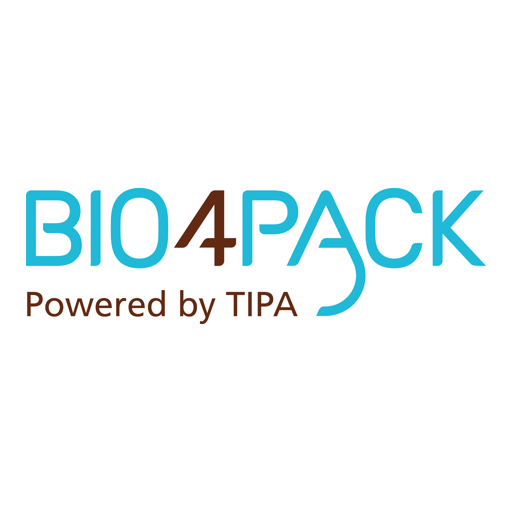
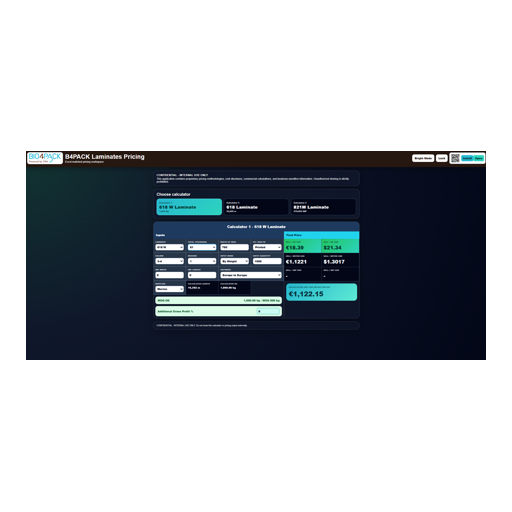
Add files via upload

diff --git a/index.html b/index.html
@@ -1,3 +1,4 @@
-<!doctype html><html><head><meta charset="utf-8"><meta name="viewport" content="width=device-width,initial-scale=1"><title>B4PACK Pricing</title><link rel="manifest" href="manifest.json"><style>
-:root{--bg:#06101f;--panel:#111d31;--text:#f8fafc;--muted:#aab7c8;--line:#2a3b55;--cyan:#28bfd0;--cyan2:#70efe2;--input:#f1f5f9;--inputText:#0f172a}.light{--bg:#f8fafc;--panel:#fff;--text:#0f172a;--muted:#475569;--line:#cbd5e1;--input:#fff;--inputText:#0f172a}*{box-sizing:border-box}body{margin:0;font-family:Arial,Helvetica,sans-serif;background:var(--bg);color:var(--text)}button,select,input{font:inherit}.app{min-height:100vh;background:radial-gradient(circle at top left,#16434a,var(--bg) 38%,#050912)}.app.light{background:linear-gradient(135deg,#f8fafc,#eaf6ff)}.top{background:linear-gradient(135deg,#21130e,#48200f);padding:16px 22px;display:flex;justify-content:space-between;align-items:center;gap:16px;color:white}.brand{display:flex;gap:14px;align-items:center}.logo{background:white;border-radius:16px;padding:8px 12px}.logo img{height:54px;max-width:300px;display:block}h1{margin:0;font-size:clamp(24px,3vw,36px)}.sub{color:#cbd5e1;font-size:13px}.actions{display:flex;align-items:center;gap:10px;flex-wrap:wrap}.btn{border:0;border-radius:12px;padding:10px 14px;background:white;color:#261810;font-weight:900;cursor:pointer}.install{display:flex;gap:8px;align-items:center;background:#f8fafc;color:#0f172a;border-radius:14px;padding:6px 8px}.install img{width:50px;height:50px}.install button,.install a{border:0;border-radius:9px;padding:7px 10px;background:var(--cyan);color:#052e2b;font-weight:900;text-decoration:none;cursor:pointer}.install a{background:var(--cyan2)}.page{max-width:1340px;margin:auto;padding:22px}.notice,.cards,.main,.price,.footer{background:var(--panel);border:1px solid var(--line);border-radius:22px;box-shadow:0 14px 40px #0004}.notice{padding:16px 20px;border-left:6px solid var(--cyan);margin-bottom:18px}.notice p{margin:4px 0 0;color:var(--muted);font-size:13px}.cards{padding:18px;margin-bottom:18px}.tabs{display:grid;grid-template-columns:repeat(3,1fr);gap:12px}.tab{background:var(--bg);color:var(--text);border:1px solid var(--line);border-radius:18px;padding:16px;text-align:left;cursor:pointer}.tab.active{background:linear-gradient(135deg,var(--cyan),var(--cyan2));color:#052e2b;border:0}.tab span{font-size:11px;text-transform:uppercase;font-weight:900;opacity:.75}.tab strong{display:block;font-size:24px;margin-top:6px}.tab small{font-weight:800;opacity:.8}.work{display:grid;grid-template-columns:minmax(0,1.55fr) minmax(360px,.8fr);gap:18px}.title{padding:16px;text-align:center;background:#1f4167;color:white;font-size:20px;font-weight:950}.app.light .title{background:#dbeafe;color:#0f172a}.wrap{padding:18px}.group{margin-bottom:18px}.group h3{font-size:13px;text-transform:uppercase;letter-spacing:.12em;color:#8be9ef;margin:0 0 10px}.app.light .group h3{color:#057d8a}.grid{display:grid;grid-template-columns:repeat(3,1fr);gap:10px}.field{background:var(--input);color:var(--inputText);border:1px solid #cbd5e1;border-radius:14px;padding:10px}.field label{display:block;font-size:10px;text-transform:uppercase;font-weight:950;color:#475569;margin-bottom:5px}select,input{width:100%;border:0;background:white;color:#0f172a;border-radius:10px;padding:8px 9px;font-weight:900}.readonly{background:var(--bg);color:var(--text);border-color:var(--line)}.readonly .value{font-size:17px;font-weight:950}.status{display:grid;grid-template-columns:1fr 1fr;gap:10px;padding:0 18px 18px}.moq,.gp{border-radius:16px;padding:14px 16px;font-weight:950;display:flex;justify-content:space-between;align-items:center;gap:12px}.good{background:#d9fbe8;color:#07583a}.bad{background:#fee2e2;color:#991b1b}.gp{background:#d7fbef;color:#065f46}.gp input{max-width:120px;border:1px solid #23b8a6;background:#ccfbf1}.price{position:sticky;top:18px;align-self:start;overflow:hidden}.priceH{background:linear-gradient(135deg,var(--cyan),var(--cyan2));color:#06323a;padding:18px;text-align:center;font-weight:950}.hero{text-align:center;padding:24px;border-bottom:1px solid var(--line)}.hero .k{font-size:12px;text-transform:uppercase;color:var(--muted);font-weight:950;letter-spacing:.12em}.hero .m{font-size:clamp(42px,5vw,60px);font-weight:1000;letter-spacing:-.06em;margin:8px 0}.hero .u{color:#a7f3d0;font-weight:900}.app.light .hero .u{color:#0f766e}.metrics{display:grid;grid-template-columns:1fr 1fr}.metric{padding:16px;border-bottom:1px solid var(--line);border-right:1px solid var(--line)}.metric:nth-child(even){border-right:0}.metric .l{font-size:10px;color:var(--muted);text-transform:uppercase;font-weight:950}.metric .v{font-size:22px;font-weight:950;margin-top:5px}.b4p{margin:18px;border-radius:18px;background:linear-gradient(135deg,#35d1ca,#72f0df);color:#06323a;padding:18px;text-align:center}.b4p .v{font-size:34px;font-weight:1000}.footer{margin-top:18px;padding:14px 18px;color:var(--muted);font-size:12px}.login{min-height:100vh;display:flex;align-items:center;justify-content:center;padding:24px;background:radial-gradient(circle at top left,#16434a,#06101f 45%,#050912)}.loginCard{width:min(480px,100%);background:#111d31;border:1px solid #2a3b55;border-radius:28px;padding:30px}.loginLogo{background:white;border-radius:18px;padding:12px;display:inline-block;margin-bottom:18px}.loginLogo img{height:58px;max-width:330px}.loginCard input{background:#273549;color:white;border:1px solid #64748b;margin:12px 0}.loginCard button{width:100%;border:0;border-radius:14px;padding:14px;background:linear-gradient(135deg,var(--cyan),var(--cyan2));font-weight:950;color:#052e2b}.err{color:#fca5a5;font-weight:900;min-height:20px;margin-top:10px}@media(max-width:980px){.top{flex-direction:column;align-items:flex-start}.work{grid-template-columns:1fr}.price{position:static}.grid{grid-template-columns:repeat(2,1fr)}.status{grid-template-columns:1fr}}@media(max-width:640px){.page{padding:14px}.brand{flex-direction:column;align-items:flex-start}.tabs,.grid,.metrics{grid-template-columns:1fr}.install{width:100%}}
-</style></head><body><div id="root"></div><script>const DATA={"password":"Success2026","siteUrl":"https://bishmalovich-web.github.io/bio4pack-Laminates/","qrUrl":"qr-code.png","profiles":{"618 W":{"laminate":"618 W","totalThickness":61,"widthAsked":760,"prNonPr":"Printed","colors":"3-4","designs":1,"shipment":"Europe to Europe","inputMode":"By Weight","inputQuantity":1000,"inputUnit":"Kg","impWidth":0,"impLength":0,"lengthMeters":16391.76820227607,"totalKg":1000,"kgMoq":500,"sellKgEur":18.394239052100335,"kgPerMeter":0.06100623115577888},"618":{"laminate":"618","totalThickness":61,"widthAsked":385,"prNonPr":"Printed","colors":"5-8","designs":1,"shipment":"Europe to Europe","inputMode":"By Length","inputQuantity":32000,"inputUnit":"m","impWidth":0,"impLength":0,"lengthMeters":32000,"totalKg":983.9984,"kgMoq":500,"sellKgEur":14.381295142,"kgPerMeter":0.030749949999999998},"821M":{"laminate":"821M","totalThickness":79,"widthAsked":750,"prNonPr":"Printed","colors":"3-4","designs":1,"shipment":"Europe to Europe","inputMode":"By Imp","inputQuantity":475000,"inputUnit":"IMP","impWidth":70,"impLength":105,"lengthMeters":4987.5,"totalKg":397.50378125,"kgMoq":500,"sellKgEur":17.028,"sellImpEur":0.014247042956863501,"kgPerMeter":0.07970000626566416},"819":{"laminate":"819","totalThickness":121,"widthAsked":760,"prNonPr":"Printed","colors":"3-4","designs":1,"shipment":"Europe to Europe","inputMode":"By Weight","inputQuantity":1000,"inputUnit":"Kg","impWidth":760,"impLength":110,"lengthMeters":11651,"totalKg":1000,"kgMoq":500,"sellKgEur":14.04,"kgPerMeter":0.08582954252853832},"823":{"laminate":"823","totalThickness":121,"widthAsked":760,"prNonPr":"Printed","colors":"3-4","designs":1,"shipment":"Europe to Europe","inputMode":"By Weight","inputQuantity":1000,"inputUnit":"Kg","impWidth":760,"impLength":110,"lengthMeters":11651,"totalKg":1000,"kgMoq":500,"sellKgEur":14.35,"kgPerMeter":0.08582954252853832},"428":{"laminate":"428","totalThickness":79,"widthAsked":800,"prNonPr":"Printed","colors":"3-4","designs":8,"shipment":"Europe to Europe","inputMode":"By Length","inputQuantity":14000,"inputUnit":"m","impWidth":0,"impLength":0,"lengthMeters":14000,"totalKg":1143.144,"kgMoq":500,"sellKgEur":19.35426384448092,"kgPerMeter":0.08165314285714285}},"allowed":["618","618 W","428","819","823","821M"],"calcDefaults":["618 W","618","821M"],"colors":["0","1-2","3-4","5-8"],"prOptions":["Printed","Non PR"],"inputModes":["By Length","By Weight","By Imp"],"shipments":["Europe to Europe"],"designs":[1,2,3,4,5,6,7,8],"thicknessByLam":{"618":[51,56,61,66,78,86,106],"618 W":[51,56,61,66,78,86,106],"428":[79],"819":[121],"823":[121],"821M":[79]}};let mode=localStorage.getItem('b4p_mode')||'dark',activeCalc=1,states={1:{},2:{},3:{}},auth=sessionStorage.getItem('b4p_access')==='granted',deferredPrompt=null;function init(){[1,2,3].forEach((id,i)=>{const lam=DATA.calcDefaults[i];states[id]=Object.assign({},DATA.profiles[lam],{supplier:'Marma',shipment:'Europe to Europe'})})}init();window.addEventListener('beforeinstallprompt',e=>{e.preventDefault();deferredPrompt=e;});if('serviceWorker' in navigator){window.addEventListener('load',()=>navigator.serviceWorker.register('./sw.js').catch(()=>{}));}function n(v,d=2){return v==null||v===''||Number.isNaN(Number(v))?'-':Number(v).toLocaleString(undefined,{minimumFractionDigits:d,maximumFractionDigits:d})}function i(v){return v==null||v===''||Number.isNaN(Number(v))?'-':Number(v).toLocaleString(undefined,{maximumFractionDigits:0})}function opt(a,v){return a.map(x=>`<option value="${x}" ${String(x)===String(v)?'selected':''}>${x}</option>`).join('')}function field(l,t,v,o,id){return `<div class="field"><label>${l}</label>${t==='select'?`<select id="${id}">${opt(o,v)}</select>`:`<input id="${id}" type="number" value="${v??''}">`}</div>`}function ro(l,v){return `<div class="field readonly"><label>${l}</label><div class="value">${v}</div></div>`}function title(id){return `Calculator ${id} - ${states[id].laminate} Laminate`}function colorFactor(cur,base){const r={'0':0.86,'1-2':0.94,'3-4':1,'5-8':1.08};return (r[cur]??1)/(r[base]??1)}function calc(c){const p=DATA.profiles[c.laminate];c.supplier='Marma';c.shipment='Europe to Europe';const bw=+p.widthAsked||1,w=+c.widthAsked||bw,bt=+p.totalThickness||1,t=+c.totalThickness||bt;let kgpm=(+p.kgPerMeter||0)*(w/bw)*(t/bt);const qty=+c.inputQuantity||0;let meters=0,kg=0,impL=+c.impLength||+p.impLength||0;if(c.inputMode==='By Weight'){kg=qty;meters=kg/Math.max(kgpm,.000001)}else if(c.inputMode==='By Imp'){const bq=+p.inputQuantity||qty||1;meters=(+p.lengthMeters||0)*(qty/bq);kg=meters*kgpm}else{meters=qty;kg=meters*kgpm}let factor=colorFactor(c.colors,p.colors);factor*=((c.prNonPr==='Printed'?1:.86)/(p.prNonPr==='Printed'?1:.86));factor*=((1+((+c.designs||1)-1)*.012)/(1+((+p.designs||1)-1)*.012));let sellKg=p.sellKgEur*factor;const extra=Math.max(0,Math.min(95,+c.additionalGrossProfit||0));sellKg=sellKg/(1-extra/100);const sellM=sellKg*kgpm;const sellImp=(c.inputMode==='By Imp'&&qty)?(sellKg*kg/qty):null,usd=1.16,b4p=(sellImp!==null&&impL)?((1000/impL)*sellImp*1000):sellM*1000;return{meters,kg,sellKg,sellKgUsd:sellKg*usd,sellM,sellMUsd:sellM*usd,sellImp,sellImpUsd:sellImp===null?null:sellImp*usd,b4p,totalSell:sellKg*kg}}function wire(id,fn){const e=document.getElementById(id);if(e)e.onchange=x=>{fn(x.target.value);render()}}function login(){document.getElementById('root').innerHTML=`<div class="login"><div class="loginCard"><div class="loginLogo"><img src="image.png"></div><h1>B4PACK Pricing Calculator</h1><p>Enter password to continue.</p><input id="passwordInput" type="password" placeholder="Password"><button id="loginBtn">Unlock Calculator</button><div class="err" id="loginError"></div></div></div>`;document.getElementById('loginBtn').onclick=tryLogin;document.getElementById('passwordInput').onkeydown=e=>{if(e.key==='Enter')tryLogin()};document.getElementById('passwordInput').focus()}function tryLogin(){if(document.getElementById('passwordInput').value===DATA.password){sessionStorage.setItem('b4p_access','granted');auth=true;render()}else document.getElementById('loginError').textContent='Incorrect password'}function installApp(){if(deferredPrompt){deferredPrompt.prompt();deferredPrompt.userChoice.finally(()=>deferredPrompt=null)}else alert('Use browser menu: Add to Home Screen / Install App.')}function render(){if(!auth){login();return}const c=states[activeCalc],r=calc(c),under=r.kg<(+c.kgMoq||500),th=DATA.thicknessByLam[c.laminate]||[c.totalThickness];document.getElementById('root').innerHTML=`<div class="app ${mode==='light'?'light':'dark'}"><header class="top"><div class="brand"><div class="logo"><img src="image.png"></div><div><h1>B4PACK Laminates Pricing</h1><div class="sub">Confidential internal pricing workspace</div></div></div><div class="actions"><button class="btn" id="modeBtn">${mode==='dark'?'Bright Mode':'Dark Mode'}</button><button class="btn" id="logoutBtn">Lock</button><div class="install"><img src="${DATA.qrUrl}"><div><button id="installBtn">Install</button><a href="${DATA.siteUrl}" target="_blank">Open</a></div></div></div></header><main class="page"><section class="notice"><strong>CONFIDENTIAL - INTERNAL USE ONLY</strong><p>This application contains proprietary pricing methodologies, cost structures, commercial calculations, and business-sensitive information. Unauthorized sharing is strictly prohibited.</p></section><section class="cards"><h2>Choose calculator</h2><div class="tabs">${[1,2,3].map(id=>`<button class="tab ${id===activeCalc?'active':''}" data-calc="${id}"><span>Calculator ${id}</span><strong>${states[id].laminate} Laminate</strong><small>${i(states[id].inputQuantity)} ${states[id].inputUnit||''}</small></button>`).join('')}</div></section><section class="work"><div class="main"><div class="title">${title(activeCalc)}</div><div class="wrap"><div class="group"><h3>Material setup</h3><div class="grid">${field('Laminate','select',c.laminate,DATA.allowed,'laminate')}${field('Total Thickness','select',c.totalThickness,th,'thickness')}${field('Width of Reel','number',c.widthAsked,null,'width')}</div></div><div class="group"><h3>Production inputs</h3><div class="grid">${field('Input Mode','select',c.inputMode,DATA.inputModes,'mode')}${field('Input Quantity','number',c.inputQuantity,null,'qty')}${field('PR / Non PR','select',c.prNonPr,DATA.prOptions,'pr')}${field('Colors','select',c.colors,DATA.colors,'colors')}${field('Designs','select',c.designs,DATA.designs,'designs')}${field('Shipment','select',c.shipment,DATA.shipments,'shipment')}${field('IMP Width','number',c.impWidth,null,'impw')}${field('IMP Length','number',c.impLength,null,'impl')}</div></div><div class="group"><h3>Calculated output</h3><div class="grid">${ro('Calculated Length',n(r.meters,0)+' m')}${ro('Calculated KG',n(r.kg,2)+' kg')}${ro('Total Sell EUR','€'+n(r.totalSell,2))}</div></div></div><div class="status"><div class="moq ${under?'bad':'good'}"><span>${under?'UNDER MOQ':'MOQ OK'}</span><span>${n(r.kg,2)} kg / MOQ ${n(c.kgMoq||500,0)} kg</span></div><div class="gp"><span>Additional Gross Profit %</span><input id="extraGp" type="number" value="${c.additionalGrossProfit??0}"></div></div></div><aside class="price"><div class="priceH">Final Price</div><div class="hero"><div class="k">Sell Price Per KG</div><div class="m">€${n(r.sellKg,2)}</div><div class="u">EUR / KG</div></div><div class="metrics"><div class="metric"><div class="l">KG USD</div><div class="v">$${n(r.sellKgUsd,2)}</div></div><div class="metric"><div class="l">Meter EUR</div><div class="v">€${n(r.sellM,4)}</div></div><div class="metric"><div class="l">Meter USD</div><div class="v">$${n(r.sellMUsd,4)}</div></div><div class="metric"><div class="l">IMP EUR</div><div class="v">${r.sellImp===null?'-':'€'+n(r.sellImp,5)}</div></div></div><div class="b4p"><div class="l">B4P per 1000 meter</div><div class="v">€${n(r.b4p,2)}</div></div></aside></section><section class="footer">CONFIDENTIAL - INTERNAL USE ONLY. Supplier is fixed internally as Marma and is not shown in the pricing interface.</section></main></div>`;document.getElementById('modeBtn').onclick=()=>{mode=mode==='dark'?'light':'dark';localStorage.setItem('b4p_mode',mode);render()};document.getElementById('installBtn').onclick=installApp;document.getElementById('logoutBtn').onclick=()=>{sessionStorage.removeItem('b4p_access');auth=false;login()};document.querySelectorAll('.tab').forEach(b=>b.onclick=()=>{activeCalc=+b.dataset.calc;render()});wire('laminate',v=>{states[activeCalc]=Object.assign({},DATA.profiles[v],{laminate:v,supplier:'Marma',shipment:'Europe to Europe'})});wire('thickness',v=>states[activeCalc].totalThickness=+v);wire('width',v=>states[activeCalc].widthAsked=+v);wire('pr',v=>states[activeCalc].prNonPr=v);wire('colors',v=>states[activeCalc].colors=v);wire('designs',v=>states[activeCalc].designs=+v);wire('mode',v=>states[activeCalc].inputMode=v);wire('qty',v=>states[activeCalc].inputQuantity=+v);wire('impw',v=>states[activeCalc].impWidth=+v);wire('impl',v=>states[activeCalc].impLength=+v);wire('extraGp',v=>states[activeCalc].additionalGrossProfit=+v)}render();</script></body></html>
+<!doctype html>
+<html><head><meta charset="utf-8"><meta name="viewport" content="width=device-width,initial-scale=1"><title>B4PACK Pricing</title><link rel="manifest" href="manifest.json"><style>
+:root{--bg:#06101f;--panel:#111d31;--text:#f8fafc;--muted:#aab7c8;--line:#2a3b55;--cyan:#28bfd0;--cyan2:#70efe2;--input:#f1f5f9;--inputText:#0f172a}.light{--bg:#f8fafc;--panel:#fff;--text:#0f172a;--muted:#475569;--line:#cbd5e1;--input:#fff;--inputText:#0f172a}*{box-sizing:border-box}body{margin:0;font-family:Arial,Helvetica,sans-serif;background:var(--bg);color:var(--text)}button,select,input{font:inherit}.app{min-height:100vh;background:radial-gradient(circle at top left,#16434a,var(--bg) 38%,#050912)}.app.light{background:linear-gradient(135deg,#f8fafc,#eaf6ff)}.top{background:linear-gradient(135deg,#21130e,#48200f);padding:16px 22px;display:flex;justify-content:space-between;align-items:center;gap:16px;color:white}.brand{display:flex;gap:14px;align-items:center}.logo{background:white;border-radius:16px;padding:8px 12px}.logo img{height:54px;max-width:300px;display:block}h1{margin:0;font-size:clamp(24px,3vw,36px)}.sub{color:#cbd5e1;font-size:13px}.actions{display:flex;align-items:center;gap:10px;flex-wrap:wrap}.btn{border:0;border-radius:12px;padding:10px 14px;background:white;color:#261810;font-weight:900;cursor:pointer}.install{display:flex;gap:8px;align-items:center;background:#f8fafc;color:#0f172a;border-radius:14px;padding:6px 8px}.install img{width:50px;height:50px}.install button,.install a{border:0;border-radius:9px;padding:7px 10px;background:var(--cyan);color:#052e2b;font-weight:900;text-decoration:none;cursor:pointer}.install a{background:var(--cyan2)}.page{max-width:1340px;margin:auto;padding:22px}.notice,.cards,.main,.price,.footer{background:var(--panel);border:1px solid var(--line);border-radius:22px;box-shadow:0 14px 40px #0004}.notice{padding:16px 20px;border-left:6px solid var(--cyan);margin-bottom:18px}.notice p{margin:4px 0 0;color:var(--muted);font-size:13px}.cards{padding:18px;margin-bottom:18px}.tabs{display:grid;grid-template-columns:repeat(3,1fr);gap:12px}.tab{background:var(--bg);color:var(--text);border:1px solid var(--line);border-radius:18px;padding:16px;text-align:left;cursor:pointer}.tab.active{background:linear-gradient(135deg,var(--cyan),var(--cyan2));color:#052e2b;border:0}.tab span{font-size:11px;text-transform:uppercase;font-weight:900;opacity:.75}.tab strong{display:block;font-size:24px;margin-top:6px}.tab small{font-weight:800;opacity:.8}.work{display:grid;grid-template-columns:minmax(0,1.55fr) minmax(360px,.8fr);gap:18px}.title{padding:16px;text-align:center;background:#1f4167;color:white;font-size:20px;font-weight:950}.app.light .title{background:#dbeafe;color:#0f172a}.wrap{padding:18px}.group{margin-bottom:18px}.group h3{font-size:13px;text-transform:uppercase;letter-spacing:.12em;color:#8be9ef;margin:0 0 10px}.app.light .group h3{color:#057d8a}.grid{display:grid;grid-template-columns:repeat(3,1fr);gap:10px}.field{background:var(--input);color:var(--inputText);border:1px solid #cbd5e1;border-radius:14px;padding:10px}.field label{display:block;font-size:10px;text-transform:uppercase;font-weight:950;color:#475569;margin-bottom:5px}select,input{width:100%;border:0;background:white;color:#0f172a;border-radius:10px;padding:8px 9px;font-weight:900}.readonly{background:var(--bg);color:var(--text);border-color:var(--line)}.readonly .value{font-size:17px;font-weight:950}.pricingNote{margin:0 18px 12px;padding:14px 16px;border-left:5px solid var(--cyan);background:#e6fffb;color:#0f172a;border-radius:14px;font-size:13px;line-height:1.35}.pricingNote strong{display:block;font-size:13px;text-transform:uppercase;letter-spacing:.08em;margin-bottom:4px}.app.light .pricingNote{background:#ecfeff;color:#0f172a}.status{display:grid;grid-template-columns:1fr 1fr;gap:10px;padding:0 18px 18px}.moq,.gp{border-radius:16px;padding:14px 16px;font-weight:950;display:flex;justify-content:space-between;align-items:center;gap:12px}.good{background:#d9fbe8;color:#07583a}.bad{background:#fee2e2;color:#991b1b}.gp{background:#d7fbef;color:#065f46}.gp input{max-width:120px;border:1px solid #23b8a6;background:#ccfbf1}.price{position:sticky;top:18px;align-self:start;overflow:hidden}.priceH{background:linear-gradient(135deg,var(--cyan),var(--cyan2));color:#06323a;padding:18px;text-align:center;font-weight:950}.hero{text-align:center;padding:24px;border-bottom:1px solid var(--line)}.hero .k{font-size:12px;text-transform:uppercase;color:var(--muted);font-weight:950;letter-spacing:.12em}.hero .m{font-size:clamp(42px,5vw,60px);font-weight:1000;letter-spacing:-.06em;margin:8px 0}.hero .u{color:#a7f3d0;font-weight:900}.app.light .hero .u{color:#0f766e}.metrics{display:grid;grid-template-columns:1fr 1fr}.metric{padding:16px;border-bottom:1px solid var(--line);border-right:1px solid var(--line)}.metric:nth-child(even){border-right:0}.metric .l{font-size:10px;color:var(--muted);text-transform:uppercase;font-weight:950}.metric .v{font-size:22px;font-weight:950;margin-top:5px}.b4p{margin:18px;border-radius:18px;background:linear-gradient(135deg,#35d1ca,#72f0df);color:#06323a;padding:18px;text-align:center}.b4p .v{font-size:34px;font-weight:1000}.footer{margin-top:18px;padding:14px 18px;color:var(--muted);font-size:12px}.login{min-height:100vh;display:flex;align-items:center;justify-content:center;padding:24px;background:radial-gradient(circle at top left,#16434a,#06101f 45%,#050912)}.loginCard{width:min(480px,100%);background:#111d31;border:1px solid #2a3b55;border-radius:28px;padding:30px}.loginLogo{background:white;border-radius:18px;padding:12px;display:inline-block;margin-bottom:18px}.loginLogo img{height:58px;max-width:330px}.loginCard input{background:#273549;color:white;border:1px solid #64748b;margin:12px 0}.loginCard button{width:100%;border:0;border-radius:14px;padding:14px;background:linear-gradient(135deg,var(--cyan),var(--cyan2));font-weight:950;color:#052e2b}.err{color:#fca5a5;font-weight:900;min-height:20px;margin-top:10px}@media(max-width:980px){.top{flex-direction:column;align-items:flex-start}.work{grid-template-columns:1fr}.price{position:static}.grid{grid-template-columns:repeat(2,1fr)}.status{grid-template-columns:1fr}}@media(max-width:640px){.page{padding:14px}.brand{flex-direction:column;align-items:flex-start}.tabs,.grid,.metrics{grid-template-columns:1fr}.install{width:100%}}
+</style></head><body><div id="root"></div><script>const DATA={"password":"Success2026","siteUrl":"https://bishmalovich-web.github.io/bio4pack-Laminates/","qrUrl":"qr-code.png","profiles":{"618 W":{"laminate":"618 W","totalThickness":61,"widthAsked":760,"prNonPr":"Printed","colors":"3-4","designs":1,"inputMode":"By Weight","inputQuantity":1000,"inputUnit":"Kg","impWidth":0,"impLength":0,"lengthMeters":16391.76820227607,"totalKg":1000,"kgMoq":500,"sellKgEur":18.394239052100335,"kgPerMeter":0.06100623115577888},"618":{"laminate":"618","totalThickness":61,"widthAsked":385,"prNonPr":"Printed","colors":"5-8","designs":1,"inputMode":"By Length","inputQuantity":32000,"inputUnit":"m","impWidth":0,"impLength":0,"lengthMeters":32000,"totalKg":983.9984,"kgMoq":500,"sellKgEur":14.381295142,"kgPerMeter":0.030749949999999998},"821M":{"laminate":"821M","totalThickness":79,"widthAsked":750,"prNonPr":"Printed","colors":"3-4","designs":1,"inputMode":"By Imp","inputQuantity":475000,"inputUnit":"IMP","impWidth":70,"impLength":105,"lengthMeters":4987.5,"totalKg":397.50378125,"kgMoq":500,"sellKgEur":17.028,"kgPerMeter":0.07970000626566416},"819":{"laminate":"819","totalThickness":121,"widthAsked":760,"prNonPr":"Printed","colors":"3-4","designs":1,"inputMode":"By Weight","inputQuantity":1000,"inputUnit":"Kg","impWidth":760,"impLength":110,"lengthMeters":11651,"totalKg":1000,"kgMoq":500,"sellKgEur":14.04,"kgPerMeter":0.08582954252853832},"823":{"laminate":"823","totalThickness":121,"widthAsked":760,"prNonPr":"Printed","colors":"3-4","designs":1,"inputMode":"By Weight","inputQuantity":1000,"inputUnit":"Kg","impWidth":760,"impLength":110,"lengthMeters":11651,"totalKg":1000,"kgMoq":500,"sellKgEur":14.35,"kgPerMeter":0.08582954252853832},"428":{"laminate":"428","totalThickness":79,"widthAsked":800,"prNonPr":"Printed","colors":"3-4","designs":8,"inputMode":"By Length","inputQuantity":14000,"inputUnit":"m","impWidth":0,"impLength":0,"lengthMeters":14000,"totalKg":1143.144,"kgMoq":500,"sellKgEur":19.35426384448092,"kgPerMeter":0.08165314285714285}},"allowed":["618 W","618","428","819","823","821M"],"calcDefaults":["618 W","618","821M"],"colors":["0","1-2","3-4","5-8"],"prOptions":["Printed","Non PR"],"inputModes":["By Length","By Weight","By Imp"],"designs":[1,2,3,4,5,6,7,8],"thicknessByLam":{"618":[51,56,61,66,78,86,106],"618 W":[51,56,61,66,78,86,106],"428":[79],"819":[121],"823":[121],"821M":[79]}};let mode=localStorage.getItem('b4p_mode')||'dark',activeCalc=1,states={1:{},2:{},3:{}},auth=sessionStorage.getItem('b4p_access')==='granted',deferredPrompt=null;function init(){[1,2,3].forEach((id,i)=>{const lam=DATA.calcDefaults[i];states[id]=Object.assign({},DATA.profiles[lam])})}init();window.addEventListener('beforeinstallprompt',e=>{e.preventDefault();deferredPrompt=e;});if('serviceWorker' in navigator){window.addEventListener('load',()=>navigator.serviceWorker.register('./sw.js').catch(()=>{}));}function n(v,d=2){return v==null||v===''||Number.isNaN(Number(v))?'-':Number(v).toLocaleString(undefined,{minimumFractionDigits:d,maximumFractionDigits:d})}function i(v){return v==null||v===''||Number.isNaN(Number(v))?'-':Number(v).toLocaleString(undefined,{maximumFractionDigits:0})}function opt(a,v){return a.map(x=>`<option value="${x}" ${String(x)===String(v)?'selected':''}>${x}</option>`).join('')}function field(l,t,v,o,id){return `<div class="field"><label>${l}</label>${t==='select'?`<select id="${id}">${opt(o,v)}</select>`:`<input id="${id}" type="number" value="${v??''}">`}</div>`}function ro(l,v){return `<div class="field readonly"><label>${l}</label><div class="value">${v}</div></div>`}function title(id){return `Calculator ${id} - ${states[id].laminate} Laminate`}function colorFactor(cur,base){const r={'0':0.86,'1-2':0.94,'3-4':1,'5-8':1.08};return (r[cur]??1)/(r[base]??1)}function calc(c){const p=DATA.profiles[c.laminate];const bw=+p.widthAsked||1,w=+c.widthAsked||bw,bt=+p.totalThickness||1,t=+c.totalThickness||bt;let kgpm=(+p.kgPerMeter||0)*(w/bw)*(t/bt);const qty=+c.inputQuantity||0;let meters=0,kg=0,impL=+c.impLength||+p.impLength||0;if(c.inputMode==='By Weight'){kg=qty;meters=kg/Math.max(kgpm,.000001)}else if(c.inputMode==='By Imp'){const bq=+p.inputQuantity||qty||1;meters=(+p.lengthMeters||0)*(qty/bq);kg=meters*kgpm}else{meters=qty;kg=meters*kgpm}let factor=colorFactor(c.colors,p.colors);factor*=((c.prNonPr==='Printed'?1:.86)/(p.prNonPr==='Printed'?1:.86));factor*=((1+((+c.designs||1)-1)*.012)/(1+((+p.designs||1)-1)*.012));let sellKg=p.sellKgEur*factor;const extra=Math.max(0,Math.min(95,+c.additionalGrossProfit||0));sellKg=sellKg/(1-extra/100);const sellM=sellKg*kgpm;const sellImp=(c.inputMode==='By Imp'&&qty)?(sellKg*kg/qty):null,usd=1.16,b4p=(sellImp!==null&&impL)?((1000/impL)*sellImp*1000):sellM*1000;return{meters,kg,sellKg,sellKgUsd:sellKg*usd,sellM,sellMUsd:sellM*usd,sellImp,sellImpUsd:sellImp===null?null:sellImp*usd,b4p,totalSell:sellKg*kg}}function wire(id,fn){const e=document.getElementById(id);if(e)e.onchange=x=>{fn(x.target.value);render()}}function login(){document.getElementById('root').innerHTML=`<div class="login"><div class="loginCard"><div class="loginLogo"><img src="image.png"></div><h1>B4PACK Pricing Calculator</h1><p>Enter password to continue.</p><input id="passwordInput" type="password" placeholder="Password"><button id="loginBtn">Unlock Calculator</button><div class="err" id="loginError"></div></div></div>`;document.getElementById('loginBtn').onclick=tryLogin;document.getElementById('passwordInput').onkeydown=e=>{if(e.key==='Enter')tryLogin()};document.getElementById('passwordInput').focus()}function tryLogin(){if(document.getElementById('passwordInput').value===DATA.password){sessionStorage.setItem('b4p_access','granted');auth=true;render()}else document.getElementById('loginError').textContent='Incorrect password'}function installApp(){if(deferredPrompt){deferredPrompt.prompt();deferredPrompt.userChoice.finally(()=>deferredPrompt=null)}else alert('Use browser menu: Add to Home Screen / Install App.')}function render(){if(!auth){login();return}const c=states[activeCalc],r=calc(c),under=r.kg<(+c.kgMoq||500),th=DATA.thicknessByLam[c.laminate]||[c.totalThickness];document.getElementById('root').innerHTML=`<div class="app ${mode==='light'?'light':'dark'}"><header class="top"><div class="brand"><div class="logo"><img src="image.png"></div><div><h1>B4PACK Laminates Pricing</h1><div class="sub">Confidential internal pricing workspace</div></div></div><div class="actions"><button class="btn" id="modeBtn">${mode==='dark'?'Bright Mode':'Dark Mode'}</button><button class="btn" id="logoutBtn">Lock</button><div class="install"><img src="${DATA.qrUrl}"><div><button id="installBtn">Install</button><a href="${DATA.siteUrl}" target="_blank">Open</a></div></div></div></header><main class="page"><section class="notice"><strong>CONFIDENTIAL - INTERNAL USE ONLY</strong><p>This application contains proprietary pricing methodologies, cost structures, commercial calculations, and business-sensitive information. Unauthorized sharing is strictly prohibited.</p></section><section class="cards"><h2>Choose calculator</h2><div class="tabs">${[1,2,3].map(id=>`<button class="tab ${id===activeCalc?'active':''}" data-calc="${id}"><span>Calculator ${id}</span><strong>${states[id].laminate} Laminate</strong><small>${i(states[id].inputQuantity)} ${states[id].inputUnit||''}</small></button>`).join('')}</div></section><section class="work"><div class="main"><div class="title">${title(activeCalc)}</div><div class="wrap"><div class="group"><h3>Material setup</h3><div class="grid">${field('Laminate','select',c.laminate,DATA.allowed,'laminate')}${field('Total Thickness','select',c.totalThickness,th,'thickness')}${field('Width of Reel','number',c.widthAsked,null,'width')}</div></div><div class="group"><h3>Production inputs</h3><div class="grid">${field('Input Mode','select',c.inputMode,DATA.inputModes,'mode')}${field('Input Quantity','number',c.inputQuantity,null,'qty')}${field('PR / Non PR','select',c.prNonPr,DATA.prOptions,'pr')}${field('Colors','select',c.colors,DATA.colors,'colors')}${field('Designs','select',c.designs,DATA.designs,'designs')}${field('IMP Width','number',c.impWidth,null,'impw')}${field('IMP Length','number',c.impLength,null,'impl')}</div></div><div class="group"><h3>Calculated output</h3><div class="grid">${ro('Calculated Length',n(r.meters,0)+' m')}${ro('Calculated KG',n(r.kg,2)+' kg')}${ro('Total Sell EUR','€'+n(r.totalSell,2))}</div></div></div><div class="pricingNote"><strong>Pricing Basis</strong>All prices displayed in this calculator are based on <b>EXW Europe</b> terms and reflect the standard commercial assumptions embedded in the approved Bio4Pack pricing methodology.</div><div class="status"><div class="moq ${under?'bad':'good'}"><span>${under?'UNDER MOQ':'MOQ OK'}</span><span>${n(r.kg,2)} kg / MOQ ${n(c.kgMoq||500,0)} kg</span></div><div class="gp"><span>Additional Gross Profit %</span><input id="extraGp" type="number" value="${c.additionalGrossProfit??0}"></div></div></div><aside class="price"><div class="priceH">Final Price</div><div class="hero"><div class="k">Sell Price Per KG</div><div class="m">€${n(r.sellKg,2)}</div><div class="u">EUR / KG</div></div><div class="metrics"><div class="metric"><div class="l">KG USD</div><div class="v">$${n(r.sellKgUsd,2)}</div></div><div class="metric"><div class="l">Meter EUR</div><div class="v">€${n(r.sellM,4)}</div></div><div class="metric"><div class="l">Meter USD</div><div class="v">$${n(r.sellMUsd,4)}</div></div><div class="metric"><div class="l">IMP EUR</div><div class="v">${r.sellImp===null?'-':'€'+n(r.sellImp,5)}</div></div></div><div class="b4p"><div class="l">B4P per 1000 meter</div><div class="v">€${n(r.b4p,2)}</div></div></aside></section><section class="footer">CONFIDENTIAL - INTERNAL USE ONLY. Pricing defaults use the internal commercial baseline and do not expose supplier selection.</section></main></div>`;document.getElementById('modeBtn').onclick=()=>{mode=mode==='dark'?'light':'dark';localStorage.setItem('b4p_mode',mode);render()};document.getElementById('installBtn').onclick=installApp;document.getElementById('logoutBtn').onclick=()=>{sessionStorage.removeItem('b4p_access');auth=false;login()};document.querySelectorAll('.tab').forEach(b=>b.onclick=()=>{activeCalc=+b.dataset.calc;render()});wire('laminate',v=>{states[activeCalc]=Object.assign({},DATA.profiles[v],{laminate:v})});wire('thickness',v=>states[activeCalc].totalThickness=+v);wire('width',v=>states[activeCalc].widthAsked=+v);wire('pr',v=>states[activeCalc].prNonPr=v);wire('colors',v=>states[activeCalc].colors=v);wire('designs',v=>states[activeCalc].designs=+v);wire('mode',v=>states[activeCalc].inputMode=v);wire('qty',v=>states[activeCalc].inputQuantity=+v);wire('impw',v=>states[activeCalc].impWidth=+v);wire('impl',v=>states[activeCalc].impLength=+v);wire('extraGp',v=>states[activeCalc].additionalGrossProfit=+v)}render();</script></body></html>

diff --git a/sw.js b/sw.js
@@ -1,1 +1,1 @@
-const CACHE_NAME='b4pack-final-dark-bright-v3';const ASSETS=['./','./index.html','./image.png','./icon-192.png','./icon-512.png','./manifest.json','./qr-code.png'];self.addEventListener('install',e=>{e.waitUntil(caches.open(CACHE_NAME).then(c=>c.addAll(ASSETS)).catch(()=>{}));self.skipWaiting();});self.addEventListener('activate',e=>{e.waitUntil(self.clients.claim());});self.addEventListener('fetch',e=>{e.respondWith(caches.match(e.request).then(r=>r||fetch(e.request)));});
+const CACHE_NAME='b4pack-no-supplier-v1';const ASSETS=['./','./index.html','./image.png','./icon-192.png','./icon-512.png','./manifest.json','./qr-code.png'];self.addEventListener('install',e=>{e.waitUntil(caches.open(CACHE_NAME).then(c=>c.addAll(ASSETS)).catch(()=>{}));self.skipWaiting();});self.addEventListener('activate',e=>{e.waitUntil(self.clients.claim());});self.addEventListener('fetch',e=>{e.respondWith(caches.match(e.request).then(r=>r||fetch(e.request)));});
